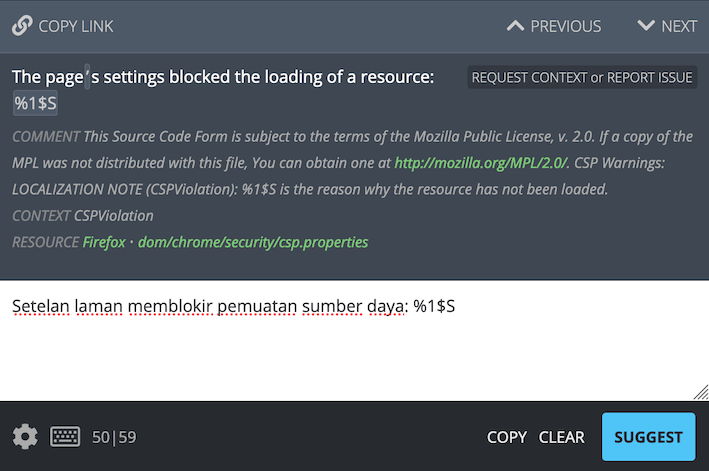
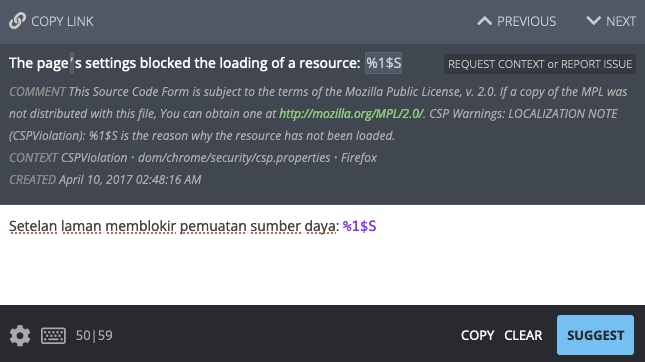
Update localizer docs post git migration (#242)
* Update localizer docs post git migration

diff --git a/src/tools/mercurial/tracking_back_string_to_bug.md b/src/tools/mercurial/tracking_back_string_to_bug.md
@@ -1,33 +1,49 @@
-# How to identify the bug that introduced a string
+# How to identify Bugzilla bugs that introduced a string
 
-Sometimes it’s helpful to identify which bug introduced a specific string, for example to check if an issue was already reported, or find out more information on a feature.
+Sometimes it’s helpful to identify which bug on [Bugzilla](https://bugzilla.mozilla.org) introduced a specific string, for example to check if an issue was already reported, or find out more information on a feature.
+
+Note: These instructions apply only to projects that make use of Bugzilla, which currenly are Firefox projects for desktop and Android.
 
 ## Find the string
 
-The first step is to identify where the string is within the Mercurial repository, and the fastest way is to use [Transvision](https://transvision.mozfr.org).
+The first step is to identify where the string is within the Mercurial repository by using [Searchfox](https://searchfox.org/).
 
-For example, if you want to know which bug introduced the string `Would you like to let this site start a server accessible to nearby devices and people?`, you can search for the [string](https://transvision.mozfr.org/?recherche=Would+you+like+to+let+this+site+start+a+server+accessible+to+nearby+devices+and+people%3F&repo=gecko_strings&sourcelocale=en-US&locale=it&search_type=strings_entities&perfect_match=perfect_match) or the identifier (if you already know it).
+For example, if you want to know which bug introduced the string `Password quality meter`, you can search for the [string](https://searchfox.org/mozilla-central/search?q=Password+quality+meter&path=&case=false&regexp=false). This may return multiples strings with the same text, so to find the exact string you can use the the [identifier](https://searchfox.org/mozilla-central/search?q=password-quality-meter&path=&case=false&regexp=false) (which can be found from [CONTEXT](../pontoon/ui.md#context) in Pontoon).
 
-In the results, you can use the `<source>` link in the en-US column to [open the file](https://hg.mozilla.org/l10n/gecko-strings/file/default/mobile/android/chrome/browser.properties) in Mercurial.
+The results may look something like this:
 
-Note that Transvision will open the `gecko-strings` repository, not the source code repository. Starting from Firefox 57, all versions of Firefox desktop and Firefox for Android ship from a single localization repository ([l10n-central](https://hg.mozilla.org/l10n-central/)). The repository containing the reference English strings, called [gecko-strings](https://hg.mozilla.org/l10n/gecko-strings), is generated from strings landing in the code repository for each branch (e.g. mozilla-central and comm-central for Nightly, mozilla-beta and comm-beta for Beta, etc.), and it’s exposed to localization tools like Pontoon and Transvision.
+![Searchfox](../../assets/images/mercurial/searchfox.png)
+
+You can further refine results to only localization files by using specific localization file extensions in the `Path filter` field in the top right:
+* For Firefox: limit the search to `.ftl` or `.properties` files. You can find information on the file from its [CONTEXT](../pontoon/ui.md#context). Or you can use `{.ftl,.properties}` to only show files with those extensions.
+* For Android: limit the search to `.xml` files.
+
+![Searchfox](../../assets/images/mercurial/searchfox-path.png)
+
+Clicking on the string will open the file in Searchfox and highlight the string.
 
 ## Find the bug
 
-At the top of the page there’s an **annotate** link that will display the changeset associated to each line.
+Searchfox shows details on the revision in which each line of code was introduced to the file, represented on the left hand sign as a bar with alternating shades of gray. Hovering over the bar next to the highlighted line containing your string will show you the revision details. The first line of the revision details contains a bug reference, a number represented as a link. Clicking the link will take you to Bugzilla where you can then check things like dependencies and comments.
 
-Now you only need to search in the page for the string, hover the link on the leftmost column, and open the [bug](https://bugzilla.mozilla.org/show_bug.cgi?id=1292639) (if an active link is available in the commit message), or select the [changeset link](https://hg.mozilla.org/l10n/gecko-strings/rev/1ed110e5b9cf) in the popup. The commit message will always have a bug reference, and you can then check dependencies and comments.
+![Searchfox](../../assets/images/mercurial/searchfox-revision.png)
 
-![Changeset info](../../assets/images/mercurial/to_changeset.png)
+### Examining the changeset in Mercurial
+
+You can also access the changeset in Mercurial. To view that, click `full diff` on the third line that says `Show annotated diff or full diff`.
+
+This will show the full commit message and all the changes made as part of the bug.
+
+![Changeset info](../../assets/images/mercurial/mercurial-changeset.png)
 
 ## Looking at older revisions
 
-This method doesn’t always work: sometimes a changeset only moves strings around, so you would need to repeat the process for an older revision of the file.
+The above method doesn’t always work: sometimes a changeset only moves strings around, so you would need to repeat the process for an older revision of the file.
 
-At the top of the changeset, there’s a list of the modified files. Near each file there’s a **revisions** link.
+If a string was moved, the changeset for the earliest version will show the bug that moved it. In Searchfox, from the bar on the lefthand side next to your string, you can click `Show earliest version with this line`. From the page that follows, hover over the left bar next to the string and click `full diff` to show the changeset for that revision in Mercurial.
 
-![Changeset info](../../assets/images/mercurial/revisions.png)
+Near the top of the changeset, there’s a list of the modified files. Near each file there’s a **revisions** link.
 
-At this point you can pick an older revision of the file by opening the **diff** link for the changeset you’re interested in, and repeat the process by selecting **annotate** near the file you’re analyzing.
+![Changeset info](../../assets/images/mercurial/mercurial-changeset-revision.png)
 
-If you want to look at the code using that string, you can also reach the [original landing](https://hg.mozilla.org/mozilla-central/rev/89a168219747b20bb0effe9abe49bcd403f27266) in the source code repository by using the link provided in the header `X-Channel-Converted-Revision`.
+After clicking **revisions**, you can pick an older changeset of a file by clicking the **diff** link next to the changeset you’re interested in, or repeat the process by selecting **annotate**. This will display the revision associated to each line of that changeset.

diff --git a/src/tools/pontoon/ui.md b/src/tools/pontoon/ui.md
@@ -76,6 +76,12 @@ The top of this space contains a string navigation interface. It’s possible to
 Below the navigation interface, the user can view the source string, any comments present in the resource regarding the string, and the resource path where the string is located.
 In the same area, the `REQUEST CONTEXT or REPORT ISSUE` button can be used to request more information about the current string: it will focus the [COMMENTS section](##source-string-comments), and mention the project manager for the project.
 
+#### Context
+
+Sometimes you may want to investigate more context about a particular string through an external resource such as a [Version Control System](glossary.md#version-control-system). The `CONTEXT` information provided underneath the source string shows the identifier, file, and project for the string — allowing you to find the string within the codebase of the project. For example, for some Mozilla projects these can be used to [track strings to bugs](../mercurial/tracking_back_string_to_bug.md).
+
+![Context](../../assets/images/pontoon/ui/context.png)
+
 ### Editor
 
 The editor is located in the middle section of the column, and it’s where users can input or edit their translations.
